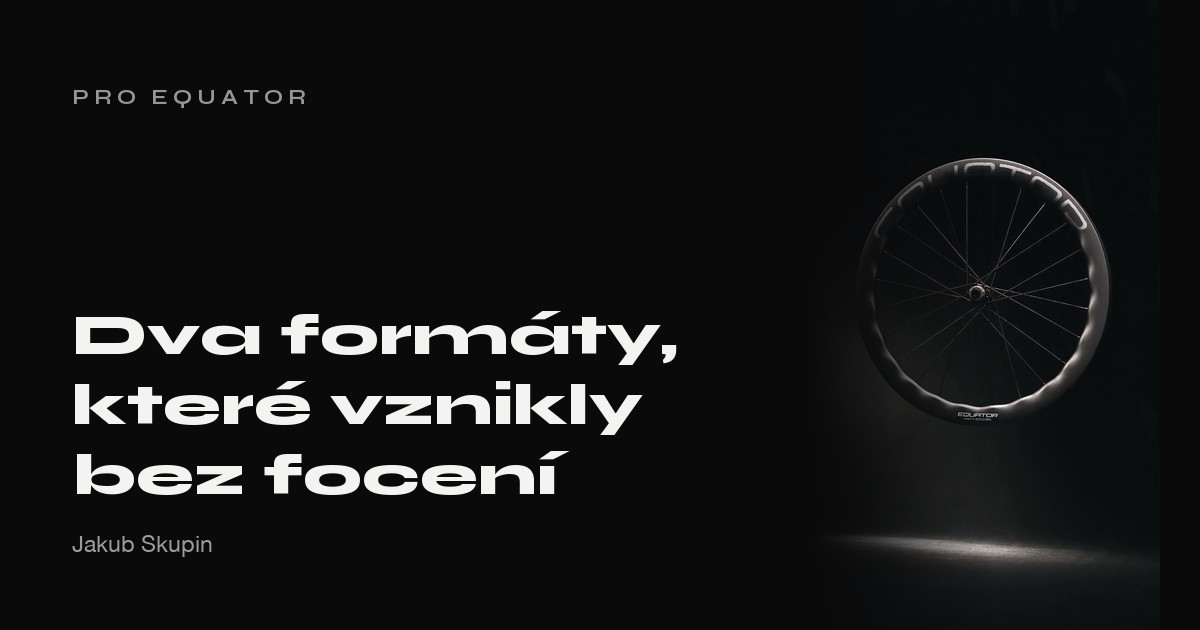
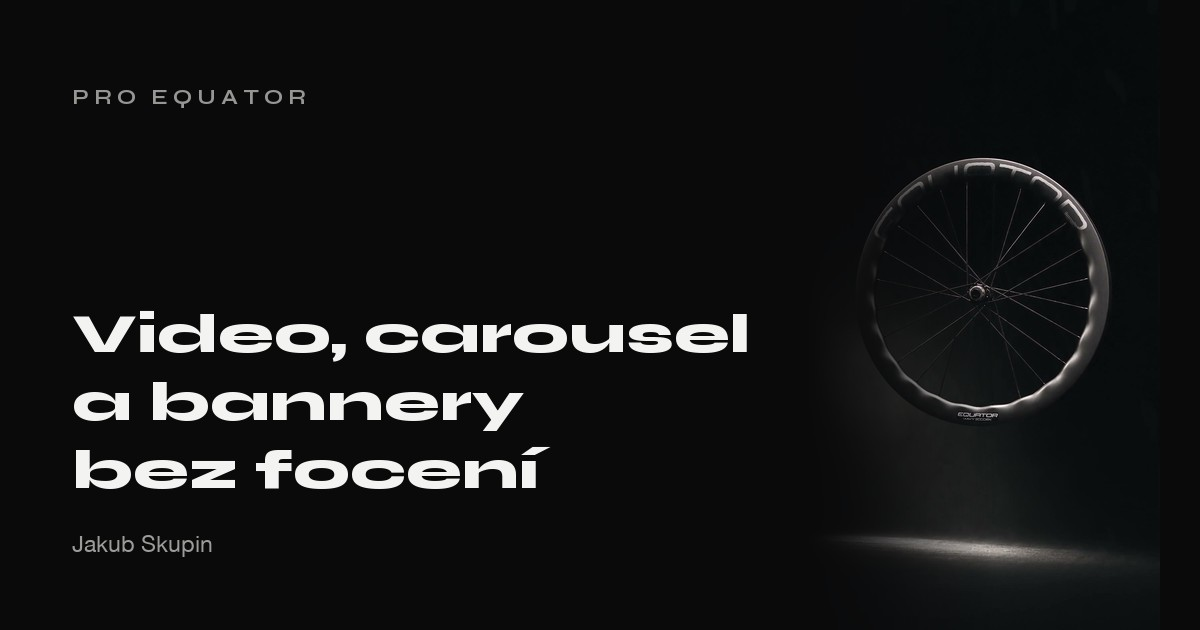
Equator: drop the tool name, update the hero to three sections
Název generátoru pryč z textu i ze štítků, stránka dál přiznává,
že obraz je generovaný AI, ale neprozrazuje čím. Hero sliboval
dva formáty, přitom sekce jsou tři: video, carousel, bannery.
Přepsán headline, lede, OG popisky i obrázek OG.

Changed region(s): [[0.0617, 0.6032, 0.555, 0.7841], [0.0617, 0.4825, 0.6475, 0.573]]

diff --git a/public/equator/index.html b/public/equator/index.html
@@ -9,12 +9,12 @@
 <meta property="og:locale" content="cs_CZ">
 <meta property="og:site_name" content="Jakub Skupin">
 <meta property="og:title" content="Pro Equator · Jakub Skupin">
-<meta property="og:description" content="Reels a Instagram carousel pro Equator Wavy 50C. Kolo je skutečné, scéna kolem něj vznikla v AI.">
+<meta property="og:description" content="Reels, Instagram carousel a sada bannerů pro Equator Wavy 50C. Kolo je skutečné, scéna kolem něj vznikla v AI.">
 <meta property="og:url" content="https://jakubskupin.cz/equator/">
 <meta property="og:image" content="https://jakubskupin.cz/equator/assets/og/og-equator.jpg">
 <meta property="og:image:width" content="1200">
 <meta property="og:image:height" content="630">
-<meta property="og:image:alt" content="Equator Wavy 50C ve světle, headline Dva formáty, které vznikly bez focení">
+<meta property="og:image:alt" content="Equator Wavy 50C ve světle, headline Video, carousel a bannery bez focení">
 <meta name="twitter:card" content="summary_large_image">
 <meta name="twitter:title" content="Pro Equator · Jakub Skupin">
 <meta name="twitter:image" content="https://jakubskupin.cz/equator/assets/og/og-equator.jpg">
@@ -201,8 +201,8 @@ section{padding:56px 0;border-top:1px solid var(--line);position:relative}
   <div class="hero">
     <div class="herotext">
       <span class="eyebrow rv">Draft · Equator Wavy 50C</span>
-      <h1 class="rv">Dva formáty, které vznikly bez focení</h1>
-      <p class="lede rv">Kolo je vaše. Scény nejsou. Vzniklo to z packshotů z <span class="nb">e-shopu</span>, obraz je generovaný AI.</p>
+      <h1 class="rv">Video, carousel a bannery bez focení</h1>
+      <p class="lede rv">Kolo je vaše. Scény nejsou. Všechno vzniklo z packshotů z <span class="nb">e-shopu</span>, obraz je generovaný AI.</p>
     </div>
     <div class="herofig rv">
       <div class="heroglow"></div>
@@ -217,8 +217,8 @@ section{padding:56px 0;border-top:1px solid var(--line);position:relative}
     <div class="copy">
       <div class="num rv"><b>01</b><span>Reels</span></div>
       <h2 class="rv">Z fotek video</h2>
-      <p class="big rv">Vypadá to jako natáčení. <b>Nic se nenatáčelo.</b> Klipy generoval Seedance 2.5, střih vznikl mimo generátor. Co statická fotka na vlnitém ráfku ztratí, pohyb ukáže.</p>
-      <div class="meta rv"><span>Seedance 2.5</span><span>Střih mimo generátor</span></div>
+      <p class="big rv">Vypadá to jako natáčení. <b>Nic se nenatáčelo.</b> Záběry jsou generované, střih vznikl mimo generátor. Co statická fotka na vlnitém ráfku ztratí, pohyb ukáže.</p>
+      <div class="meta rv"><span>Střih mimo generátor</span></div>
     </div>
     <div class="mock rv">
       <div class="phone">
